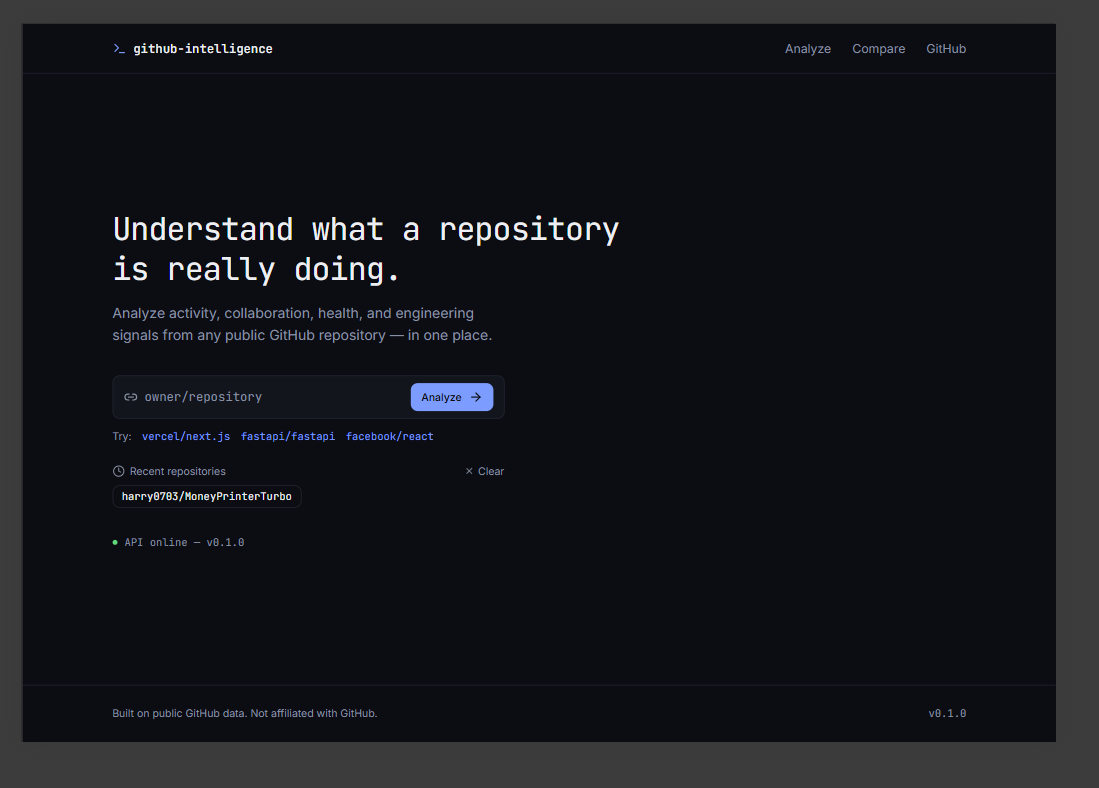
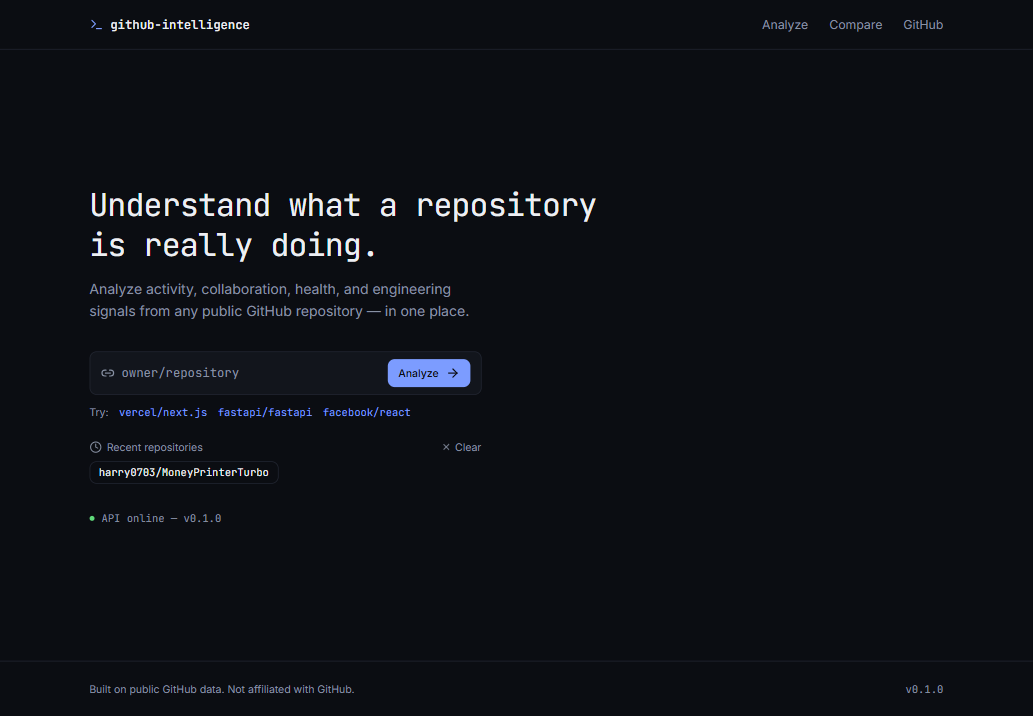
project update

Changed region(s): [[0.0, 0.0, 1.0, 1.0], [0.062, 0.2765, 0.5886, 0.7374], [0.4337, 0.5838, 0.4647, 0.6453]]

diff --git a/src/content/site.ts b/src/content/site.ts
@@ -280,6 +280,9 @@ export const siteConfig = {
       "├── GEMINI CLIENT",
       "├── ANALYTICS ENGINE",
       "└── RESPONSE CACHE",
+      "GITHUB API",
+      "RAW DATA",
+      "ANALYTICS",
       "HEALTH SCORE + INSIGHTS",
     ],
   },
